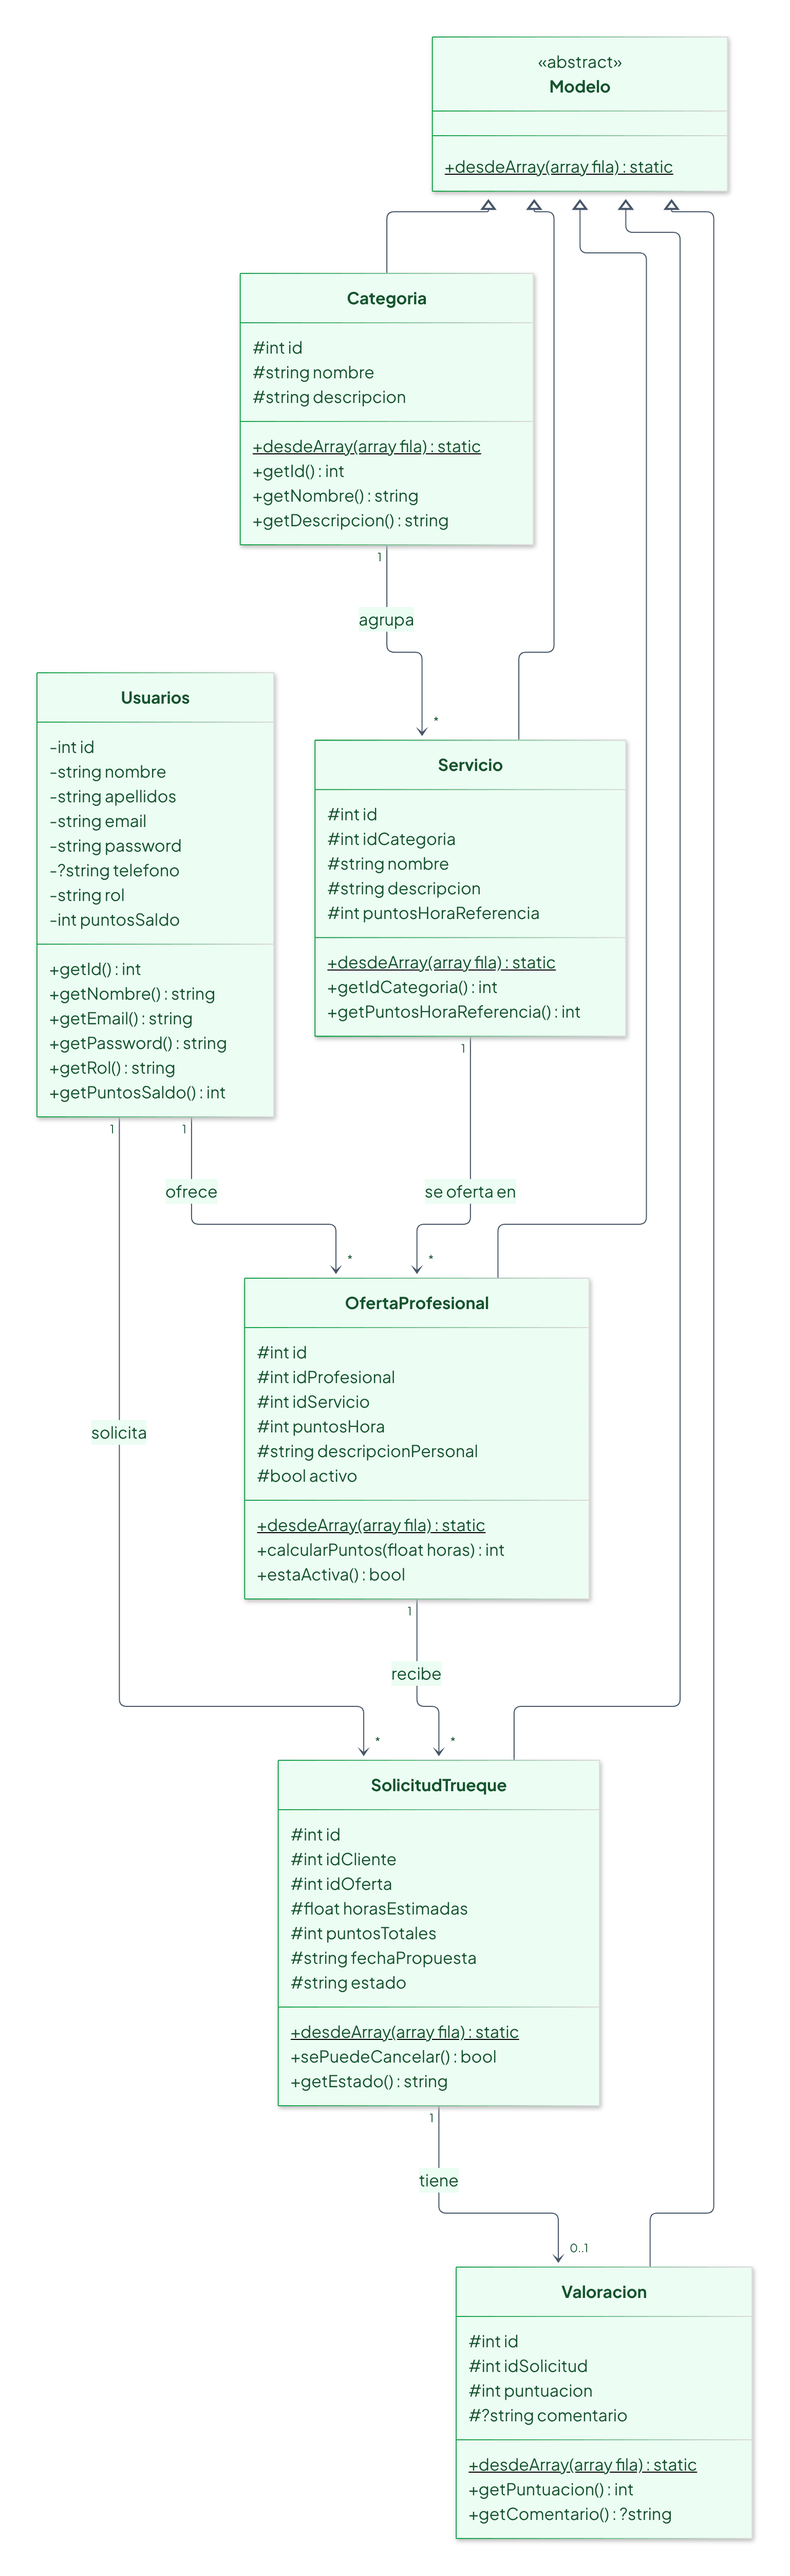
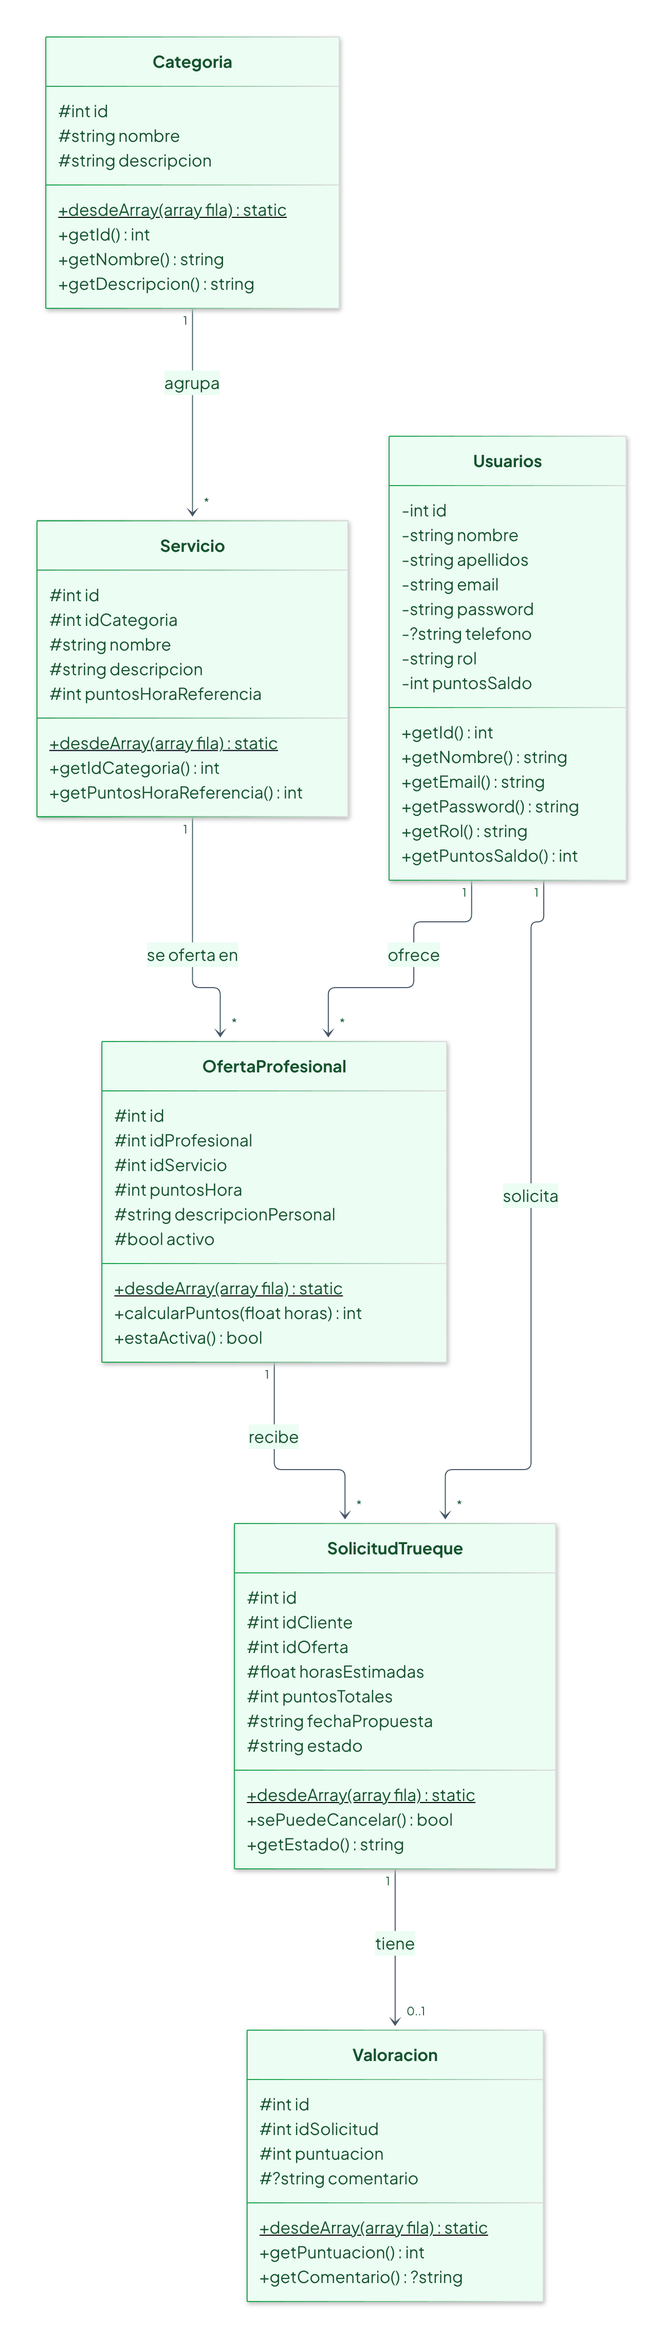
Quita extends Modelo de los modelos; manual de despliegue con imágenes
Claude-Session: https://claude.ai/code/session_01Ktb6BNW3DpmGgcPG141MAp

diff --git a/src/Models/SolicitudTrueque.php b/src/Models/SolicitudTrueque.php
@@ -4,7 +4,7 @@ declare(strict_types=1);
 
 namespace App\Models;
 
-class SolicitudTrueque extends Modelo
+class SolicitudTrueque
 {
     // * Los mismos estados que el ENUM de la base de datos
     public const ESTADOS = ['SOLICITADO', 'ACEPTADO', 'RECHAZADO', 'EN_EJECUCION', 'COMPLETADO', 'CANCELADO'];

diff --git a/src/Models/OfertaProfesional.php b/src/Models/OfertaProfesional.php
@@ -5,7 +5,7 @@ declare(strict_types=1);
 namespace App\Models;
 
 // * Servicio del catálogo que ofrece un profesional con su propia tarifa
-class OfertaProfesional extends Modelo
+class OfertaProfesional
 {
     protected int $id;
     protected int $idProfesional;

diff --git a/src/Models/Valoracion.php b/src/Models/Valoracion.php
@@ -5,7 +5,7 @@ declare(strict_types=1);
 namespace App\Models;
 
 // * Reseña que deja el cliente cuando el trueque se completa (1 por solicitud)
-class Valoracion extends Modelo
+class Valoracion
 {
     protected int $id;
     protected int $idSolicitud;

diff --git a/src/Models/Servicio.php b/src/Models/Servicio.php
@@ -5,7 +5,7 @@ declare(strict_types=1);
 namespace App\Models;
 
 // * Servicio del catálogo oficial (solo lo gestiona el admin)
-class Servicio extends Modelo
+class Servicio
 {
     protected int $id;
     protected int $idCategoria;

diff --git a/src/Models/Categoria.php b/src/Models/Categoria.php
@@ -3,7 +3,7 @@ declare(strict_types=1);
 
 namespace App\Models;
 
-class Categoria extends Modelo
+class Categoria
 {
     protected int $id;
     protected string $nombre;

diff --git a/docs/manual-despliegue.md b/docs/manual-despliegue.md
@@ -14,11 +14,7 @@ La aplicación se compone de tres contenedores definidos en `docker-compose.yml`
 | `db` | `mysql:8.0` | Base de datos `sistema_trueque` | `3306` |
 | `mailhog` | `mailhog/mailhog` | Servidor de correo de pruebas: recoge los correos que envía la app sin mandarlos de verdad | `1025` (SMTP) y `8025` (web) |
 
-```
-Navegador ──► localhost:8080 ──► app (Apache + PHP) ──► db (MySQL)
-                                        │
-                                        └──► mailhog (correos) ◄── localhost:8025
-```
+![Contenedores de Docker, puertos y conexiones](img/diagramas/despliegue.png)
 
 Dentro de Docker los contenedores se comunican por el **nombre del servicio** (`db`, `mailhog`), no por `localhost`.
 
@@ -115,6 +111,10 @@ Esto instala **Twig**, **PHPMailer** y **Dompdf** y genera el autoload PSR-4 (`A
 | Bandeja de correo (MailHog) | **http://localhost:8025** |
 | MySQL desde fuera de Docker | `localhost:3306` |
 
+Si todo ha ido bien, en http://localhost:8080 verás la página de inicio:
+
+![Página de inicio de HoraXHora en http://localhost:8080](img/capturas/inicio.png)
+
 ### Usuarios de prueba
 
 Todos los usuarios de los seeds tienen la contraseña **`1234`**.
@@ -128,6 +128,10 @@ Todos los usuarios de los seeds tienen la contraseña **`1234`**.
 | Profesional | `david@horaxhora.es` |
 
 Las contraseñas están guardadas en la base de datos con hash bcrypt, nunca en texto plano.
+
+Para comprobar que la base de datos está bien cargada, entra como `admin@horaxhora.es` y abre el **Panel Admin**: deben aparecer los 5 usuarios de prueba.
+
+![Panel de administración con los usuarios de prueba](img/capturas/admin-usuarios.png)
 
 ---
 
@@ -193,7 +197,13 @@ La aplicación envía correos al registrarse un usuario y cuando el administrado
 
 En este entorno los correos **no se envían de verdad**: los recoge MailHog y se ven en **http://localhost:8025**.
 
-- MailHog no muestra bien en la pestaña HTML los correos con imágenes incrustadas (el banner con `cid`). El correo es correcto: se puede comprobar en la pestaña **Source**.
+![Bandeja de MailHog con los correos de registro y de cuenta aprobada](img/capturas/mailhog-bandeja.png)
+
+Al abrir el correo de cuenta aprobada se ve el mensaje con el botón de iniciar sesión:
+
+![Correo de cuenta aprobada abierto en MailHog](img/capturas/mailhog-correo.png)
+
+- MailHog no muestra bien en la pestaña HTML los correos con imágenes incrustadas (el banner con `cid`): en la captura se ve que el banner no carga y que aparecen las cabeceras de las partes del mensaje. El correo es correcto: se puede comprobar en la pestaña **Source** o descargándolo y abriéndolo en un cliente de correo.
 - Si el envío de un correo falla, la acción no se bloquea (el usuario se aprueba igualmente) y el error queda en el log de PHP.
 
 Para usar un servidor de correo real habría que cambiar `MAIL_HOST` y `MAIL_PORT` y añadir usuario, contraseña y cifrado (`tls` o `ssl`) en `MailOptions`.
